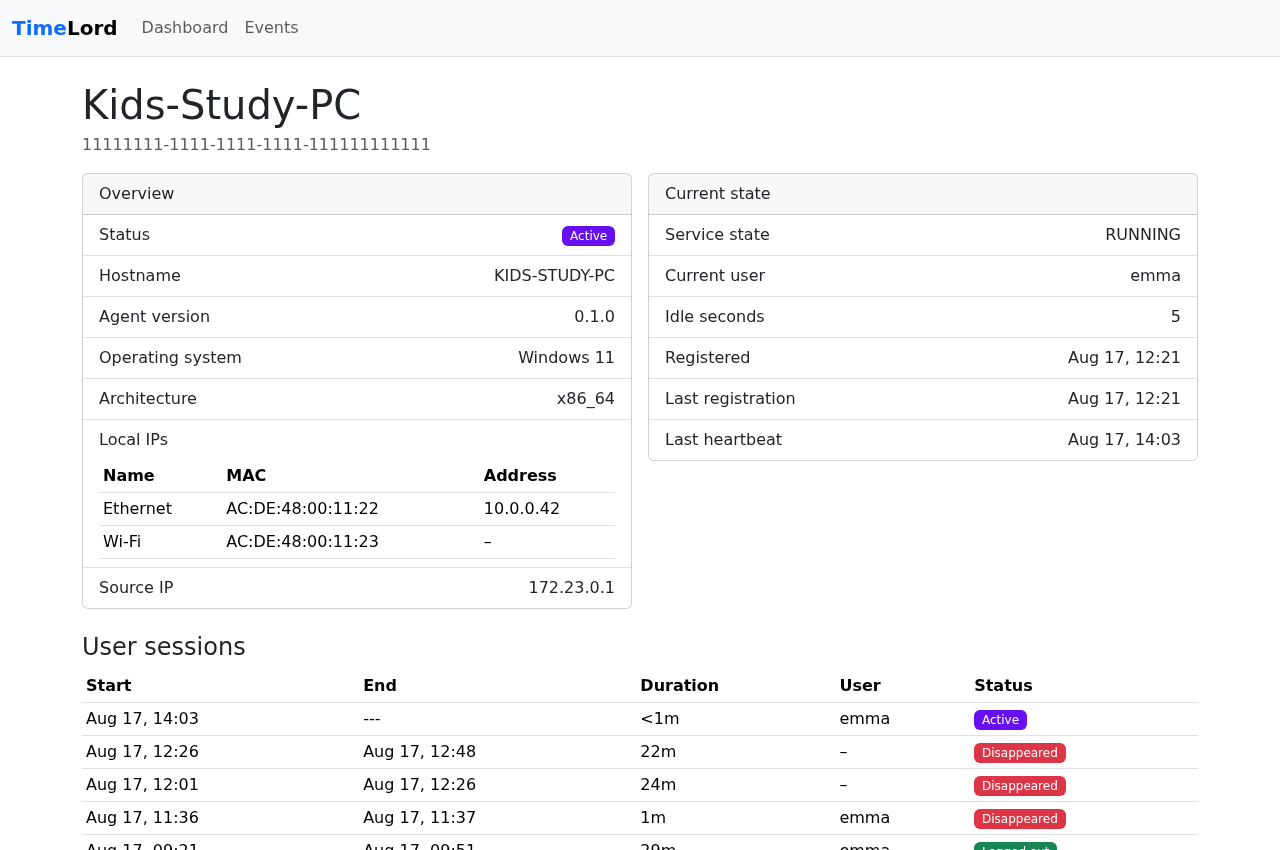
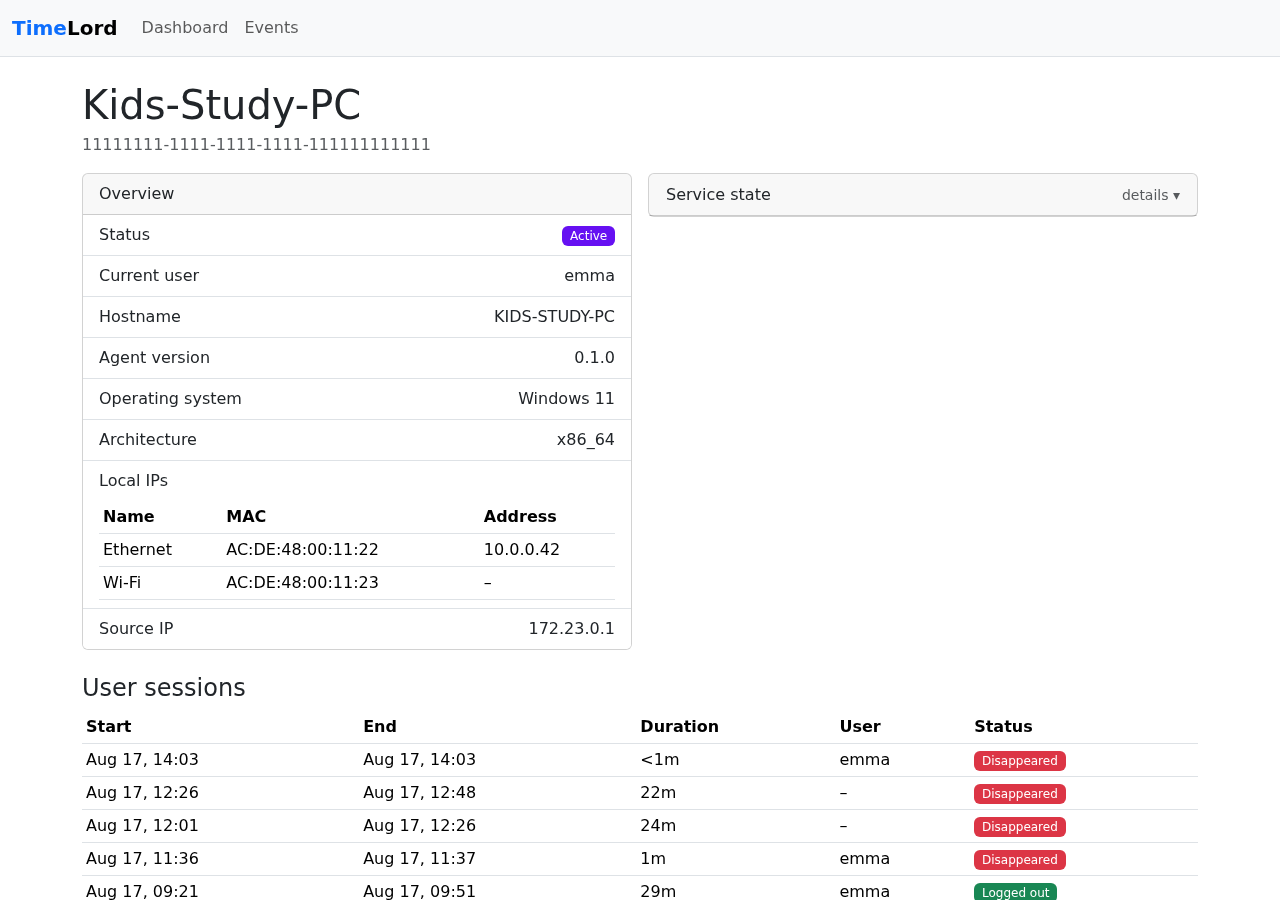
Move Current user into Overview, collapse the rest as Service state
Current user is about who's using the device — it belongs next to Status
in the Overview panel, not buried in a card about the agent's own service
internals. Renamed that card to "Service state" (what it actually is:
service state, registration timestamps, last heartbeat, idle seconds) and
made it a collapsed-by-default Bootstrap collapse section, since it's
diagnostic detail most visits to this page don't need.

diff --git a/controller/src/main/resources/templates/device-detail.html b/controller/src/main/resources/templates/device-detail.html
@@ -23,6 +23,7 @@
                             <span th:case="*" class="badge status-badge-inactive">Inactive</span>
                         </span>
                     </li>
+                    <li class="list-group-item d-flex justify-content-between"><span>Current user</span><span th:text="${device.currentUser} ?: '–'"></span></li>
                     <li class="list-group-item d-flex justify-content-between"><span>Hostname</span><span th:text="${device.hostname}"></span></li>
                     <li class="list-group-item d-flex justify-content-between"><span>Agent version</span><span th:text="${device.agentVersion}"></span></li>
                     <li class="list-group-item d-flex justify-content-between"><span>Operating system</span><span th:text="${device.operatingSystem} + ' ' + ${device.operatingSystemVersion}"></span></li>
@@ -55,15 +56,21 @@
         </div>
         <div class="col-md-6">
             <div class="card">
-                <div class="card-header">Current state</div>
-                <ul class="list-group list-group-flush">
-                    <li class="list-group-item d-flex justify-content-between"><span>Service state</span><span th:text="${device.serviceState} ?: '–'"></span></li>
-                    <li class="list-group-item d-flex justify-content-between"><span>Current user</span><span th:text="${device.currentUser} ?: '–'"></span></li>
-                    <li class="list-group-item d-flex justify-content-between"><span>Idle seconds</span><span th:text="${device.idleSeconds} ?: '–'"></span></li>
-                    <li class="list-group-item d-flex justify-content-between"><span>Registered</span><span th:text="${@timeFormat.format(device.registeredAt, zone)}"></span></li>
-                    <li class="list-group-item d-flex justify-content-between"><span>Last registration</span><span th:text="${@timeFormat.format(device.lastRegistrationAt, zone)}"></span></li>
-                    <li class="list-group-item d-flex justify-content-between"><span>Last heartbeat</span><span th:text="${device.lastHeartbeatAt} ? ${@timeFormat.format(device.lastHeartbeatAt, zone)} : 'never'"></span></li>
-                </ul>
+                <button class="card-header btn btn-link text-decoration-none text-body d-flex justify-content-between align-items-center w-100"
+                        type="button" data-bs-toggle="collapse" data-bs-target="#serviceStateCollapse"
+                        aria-expanded="false" aria-controls="serviceStateCollapse">
+                    <span>Service state</span>
+                    <span class="small text-muted">details ▾</span>
+                </button>
+                <div class="collapse" id="serviceStateCollapse">
+                    <ul class="list-group list-group-flush">
+                        <li class="list-group-item d-flex justify-content-between"><span>Service state</span><span th:text="${device.serviceState} ?: '–'"></span></li>
+                        <li class="list-group-item d-flex justify-content-between"><span>Idle seconds</span><span th:text="${device.idleSeconds} ?: '–'"></span></li>
+                        <li class="list-group-item d-flex justify-content-between"><span>Registered</span><span th:text="${@timeFormat.format(device.registeredAt, zone)}"></span></li>
+                        <li class="list-group-item d-flex justify-content-between"><span>Last registration</span><span th:text="${@timeFormat.format(device.lastRegistrationAt, zone)}"></span></li>
+                        <li class="list-group-item d-flex justify-content-between"><span>Last heartbeat</span><span th:text="${device.lastHeartbeatAt} ? ${@timeFormat.format(device.lastHeartbeatAt, zone)} : 'never'"></span></li>
+                    </ul>
+                </div>
             </div>
         </div>
     </div>
